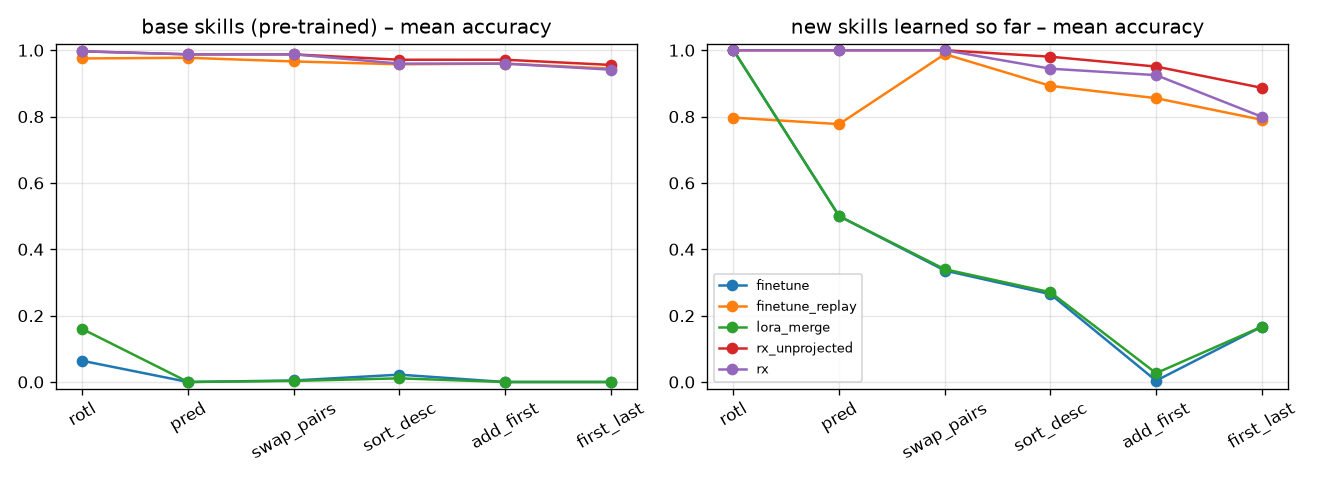
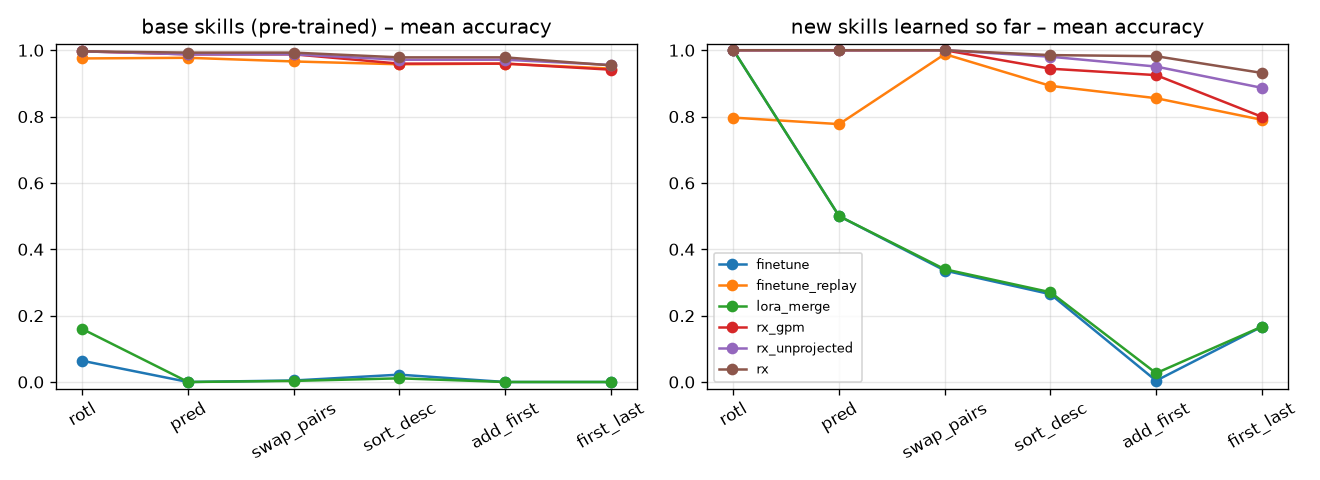
Default sleep: no GPM during REM (ablation: 0.943 vs 0.870 avg acc); relabel rx/rx_gpm results; add seed-1 runs
Claude-Session: https://claude.ai/code/session_01VYgDu9yVyr2GtHTq8EDrFP

diff --git a/experiments/continual.py b/experiments/continual.py
@@ -10,11 +10,12 @@ through whatever the method would *serve*.  Methods:
   lora_merge       plain LoRA per skill, merged into the base right away
   rx               Recursion-X: projected LoRA wake learning -> gate -> dual-
                    hemisphere sleep every 2 skills (REM: multi-teacher distillation
-                   with stratified replay + dreams, GPM, subspace protection)
+                   with stratified replay + dreams; protected subspaces grow so
+                   that later adapters are projected away from baked knowledge)
   rx_merge         rx, but adapters are merged into the base before REM (NREM merge)
   rx_merge_only    merge + protection only, no REM
   rx_no_dreams     rx with replay only (no self-generated dreams)
-  rx_nogpm         rx with projected LoRA in wake but no gradient projection in REM
+  rx_gpm           rx + GPM gradient projection during REM
   rx_unprojected   rx with ordinary LoRA and no gradient projection
   rx_grow          rx with expert growth enabled during sleep
 """
@@ -119,8 +120,8 @@ METHODS = {
     "rx_merge": lambda m, log: run_rx(m, log, nrem_merge=True),
     "rx_merge_only": lambda m, log: run_rx(m, log, nrem_merge=True, rem_steps=0),
     "rx_no_dreams": lambda m, log: run_rx(m, log, dream_frac=0.0),
-    "rx_nogpm": lambda m, log: run_rx(m, log, gpm_strength=0.0),
-    "rx_unprojected": lambda m, log: run_rx(m, log, projected=False, data_init=False, gpm_strength=0.0),
+    "rx_gpm": lambda m, log: run_rx(m, log, gpm_strength=1.0),
+    "rx_unprojected": lambda m, log: run_rx(m, log, projected=False, data_init=False),
     "rx_grow": lambda m, log: run_rx(m, log, grow_experts=True),
 }
 

diff --git a/recursionx/lifecycle/config.py b/recursionx/lifecycle/config.py
@@ -39,7 +39,7 @@ class LifecycleConfig:
     dream_frac: float = 0.5       # fraction of rehearsal made of self-generated dreams
     dream_pool: int = 384
     dream_temperature: float = 1.0
-    gpm_strength: float = 1.0     # gradient projection during REM (0 = off)
+    gpm_strength: float = 0.0     # gradient projection during REM (0 = off; see README)
     gpm_threshold: float = 0.97
     max_protect_frac: float = 0.9
 

diff --git a/experiments/report.py b/experiments/report.py
@@ -10,7 +10,7 @@ from statistics import mean, pstdev
 
 from common import BASE_SKILLS, NEW_SKILLS, RUNS
 
-ORDER = ["finetune", "finetune_replay", "lora_merge", "rx_unprojected", "rx_merge_only", "rx",
+ORDER = ["finetune", "finetune_replay", "lora_merge", "rx_merge_only", "rx_gpm", "rx_unprojected", "rx",
          "rx_grow"]
 
 

diff --git a/results/continual/summary.md b/results/continual/summary.md
@@ -3,5 +3,6 @@
 | finetune | 1 | 0.083 | 0.000 | 0.167 | 0.835 | 0.997 | -0.802 | 48.0 |
 | finetune_replay | 1 | 0.868 | 0.945 | 0.790 | 0.956 | 0.052 | -0.199 | 28.3 |
 | lora_merge | 1 | 0.083 | 0.000 | 0.167 | 0.854 | 0.997 | -0.825 | 29.0 |
-| rx_unprojected | 1 | 0.921 | 0.956 | 0.887 | 0.971 | 0.041 | -0.101 | 83.2 |
-| rx | 1 | 0.870 | 0.941 | 0.799 | 0.983 | 0.055 | -0.220 | 90.5 |
+| rx_gpm | 1 | 0.870 | 0.941 | 0.799 | 0.983 | 0.055 | -0.220 | 90.5 |
+| rx_unprojected | 2 | 0.906 ± 0.016 | 0.965 ± 0.010 | 0.846 ± 0.041 | 0.901 ± 0.070 | 0.031 ± 0.010 | -0.066 ± 0.035 | 81.1 |
+| rx | 1 | 0.943 | 0.954 | 0.932 | 0.994 | 0.042 | -0.075 | 88.3 |
